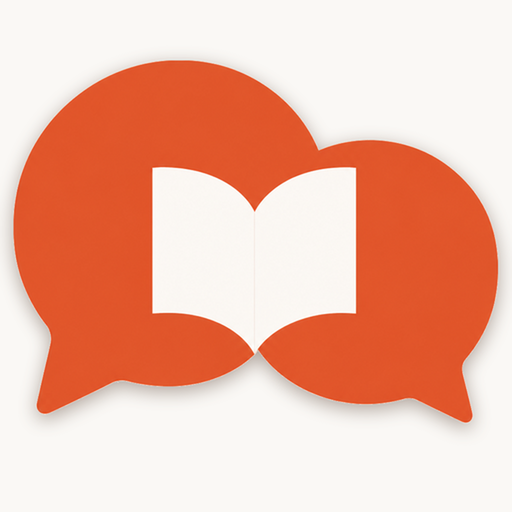
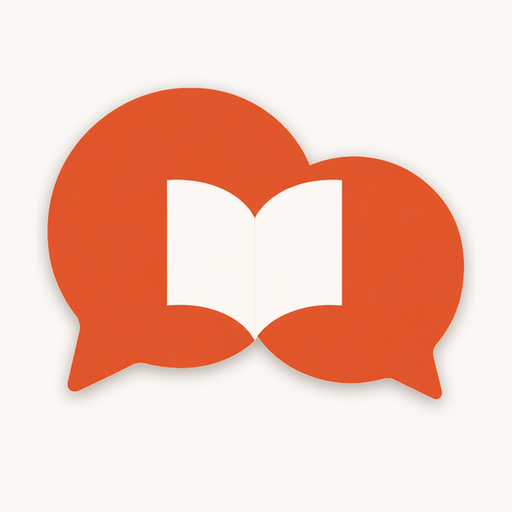
fix: ログインキーボード、作品紹介HTML、アイコン余白を改善
日本語キーボードが使えるようログイン入力を調整し、書籍紹介文のHTMLタグ表示を解消。iOS向けアイコンの余白も増やした。

Changed region(s): [[0.0, 0.0938, 1.0, 0.8438]]

diff --git a/src/app/book/[id].tsx b/src/app/book/[id].tsx
@@ -9,6 +9,7 @@ import { BookCover } from '@/components/book/BookCover';
 import { useReviewsByBook } from '@/hooks/useReviews';
 import { ReviewCard } from '@/components/review/ReviewCard';
 import { AddToShelfModal } from '@/components/shelf/AddToShelfModal';
+import { htmlToPlainText } from '@/utils/htmlToPlainText';
 
 export default function BookDetailsScreen() {
   const { id } = useLocalSearchParams<{ id: string }>();
@@ -57,6 +58,7 @@ export default function BookDetailsScreen() {
   const author = volumeInfo.authors?.join(', ') || '著者不明';
   const publishedDate = volumeInfo.publishedDate ? volumeInfo.publishedDate.substring(0, 4) : '';
   const currentStatus = readingRecord?.status;
+  const description = htmlToPlainText(volumeInfo.description);
 
   const handleStatusChange = async (status: 'want_to_read' | 'reading' | 'finished') => {
     try {
@@ -148,7 +150,7 @@ export default function BookDetailsScreen() {
       <View style={styles.descriptionSection}>
         <Text style={styles.sectionTitle}>作品紹介</Text>
         <Text style={styles.descriptionText}>
-          {volumeInfo.description || '作品紹介はありません。'}
+          {description || '作品紹介はありません。'}
         </Text>
       </View>
 

diff --git a/src/utils/htmlToPlainText.ts b/src/utils/htmlToPlainText.ts
@@ -1,0 +1,45 @@
+const NAMED_ENTITIES: Record<string, string> = {
+  '&nbsp;': ' ',
+  '&amp;': '&',
+  '&lt;': '<',
+  '&gt;': '>',
+  '&quot;': '"',
+  '&#39;': "'",
+  '&apos;': "'",
+};
+
+function decodeHtmlEntities(text: string): string {
+  let result = text;
+
+  for (const [entity, char] of Object.entries(NAMED_ENTITIES)) {
+    result = result.replaceAll(entity, char);
+  }
+
+  result = result.replace(/&#(\d+);/g, (_, code) =>
+    String.fromCodePoint(Number(code)),
+  );
+  result = result.replace(/&#x([0-9a-fA-F]+);/g, (_, code) =>
+    String.fromCodePoint(parseInt(code, 16)),
+  );
+
+  return result;
+}
+
+/**
+ * HTML 形式のテキストをプレーンテキストに変換する。
+ * Google Books API などが返す `<br>` や `<p>` タグを改行に変換する。
+ */
+export function htmlToPlainText(html: string | null | undefined): string {
+  if (!html) return '';
+
+  const text = html
+    .replace(/<\s*br\s*\/?>/gi, '\n')
+    .replace(/<\s*\/\s*(p|div|li|h[1-6]|tr|blockquote)\s*>/gi, '\n')
+    .replace(/<\s*(p|div|li|h[1-6]|blockquote)\b[^>]*>/gi, '')
+    .replace(/<[^>]+>/g, '');
+
+  return decodeHtmlEntities(text)
+    .replace(/[ \t]+\n/g, '\n')
+    .replace(/\n{3,}/g, '\n\n')
+    .trim();
+}

diff --git a/src/app/(auth)/login.tsx b/src/app/(auth)/login.tsx
@@ -104,8 +104,9 @@ export default function LoginScreen() {
               icon="mail-outline"
               placeholder="example@email.com"
               keyboardType="default"
-              autoComplete="username"
-              textContentType="emailAddress"
+              inputMode="text"
+              autoComplete={Platform.OS === 'android' ? 'email' : 'off'}
+              textContentType="none"
               returnKeyType="next"
             />
 
@@ -117,9 +118,9 @@ export default function LoginScreen() {
               placeholder="8文字以上"
               isPassword
               keyboardType="default"
-              autoComplete="current-password"
-              textContentType="password"
-              passwordRules="minlength: 8;"
+              inputMode="text"
+              autoComplete={Platform.OS === 'android' ? 'current-password' : 'off'}
+              textContentType="none"
               returnKeyType="done"
             />
 

diff --git a/src/services/bookService.ts b/src/services/bookService.ts
@@ -8,6 +8,7 @@
 
 import { supabase } from './supabase';
 import type { Database } from '@/types/database.types';
+import { htmlToPlainText } from '@/utils/htmlToPlainText';
 
 type BookRow = Database['public']['Tables']['books']['Row'];
 type BookInsert = Database['public']['Tables']['books']['Insert'];
@@ -331,7 +332,7 @@ export function googleBookToInsert(item: GoogleBookItem): BookInsert {
     genre: info.categories?.[0] ?? null,
     page_count: info.pageCount ?? null,
     published_date: normalizePublishedDate(info.publishedDate),
-    description: info.description ?? null,
+    description: info.description ? htmlToPlainText(info.description) : null,
     google_books_id: isRakuten ? null : item.id.startsWith('dummy-') ? null : item.id,
     rakuten_books_id: rakutenIsbn,
   };

diff --git a/scripts/generate-app-icon.py b/scripts/generate-app-icon.py
@@ -1,0 +1,44 @@
+#!/usr/bin/env python3
+"""
+アプリアイコン (icon.png) を生成する。
+
+iOS / Android のホーム画面表示向けに、ロゴ周りの余白を確保する。
+"""
+
+from __future__ import annotations
+
+import os
+from PIL import Image
+
+BASE_DIR = os.path.dirname(os.path.dirname(os.path.abspath(__file__)))
+IMG_DIR = os.path.join(BASE_DIR, "assets", "images")
+MASTER_PATH = os.path.join(IMG_DIR, "icon-master.png")
+OUT_PATH = os.path.join(IMG_DIR, "icon.png")
+
+SIZE = 1024
+# ロゴの表示サイズ比率（小さいほど余白が増える）
+CONTENT_SCALE = 0.86
+BG_COLOR = (250, 248, 245, 255)  # #FAF8F5
+
+
+def generate_icon(src_path: str, out_path: str) -> None:
+    src = Image.open(src_path).convert("RGBA")
+    content_size = int(SIZE * CONTENT_SCALE)
+    scaled = src.resize((content_size, content_size), Image.LANCZOS)
+
+    canvas = Image.new("RGBA", (SIZE, SIZE), BG_COLOR)
+    offset = (SIZE - content_size) // 2
+    canvas.paste(scaled, (offset, offset), scaled)
+    canvas.save(out_path, "PNG")
+
+
+def main() -> None:
+    src_path = MASTER_PATH if os.path.exists(MASTER_PATH) else OUT_PATH
+    print(f"読み込み: {src_path}")
+    generate_icon(src_path, OUT_PATH)
+    margin = (SIZE - int(SIZE * CONTENT_SCALE)) // 2
+    print(f"保存: {OUT_PATH} ({SIZE}x{SIZE}, 余白 {margin}px, scale={CONTENT_SCALE})")
+
+
+if __name__ == "__main__":
+    main()
